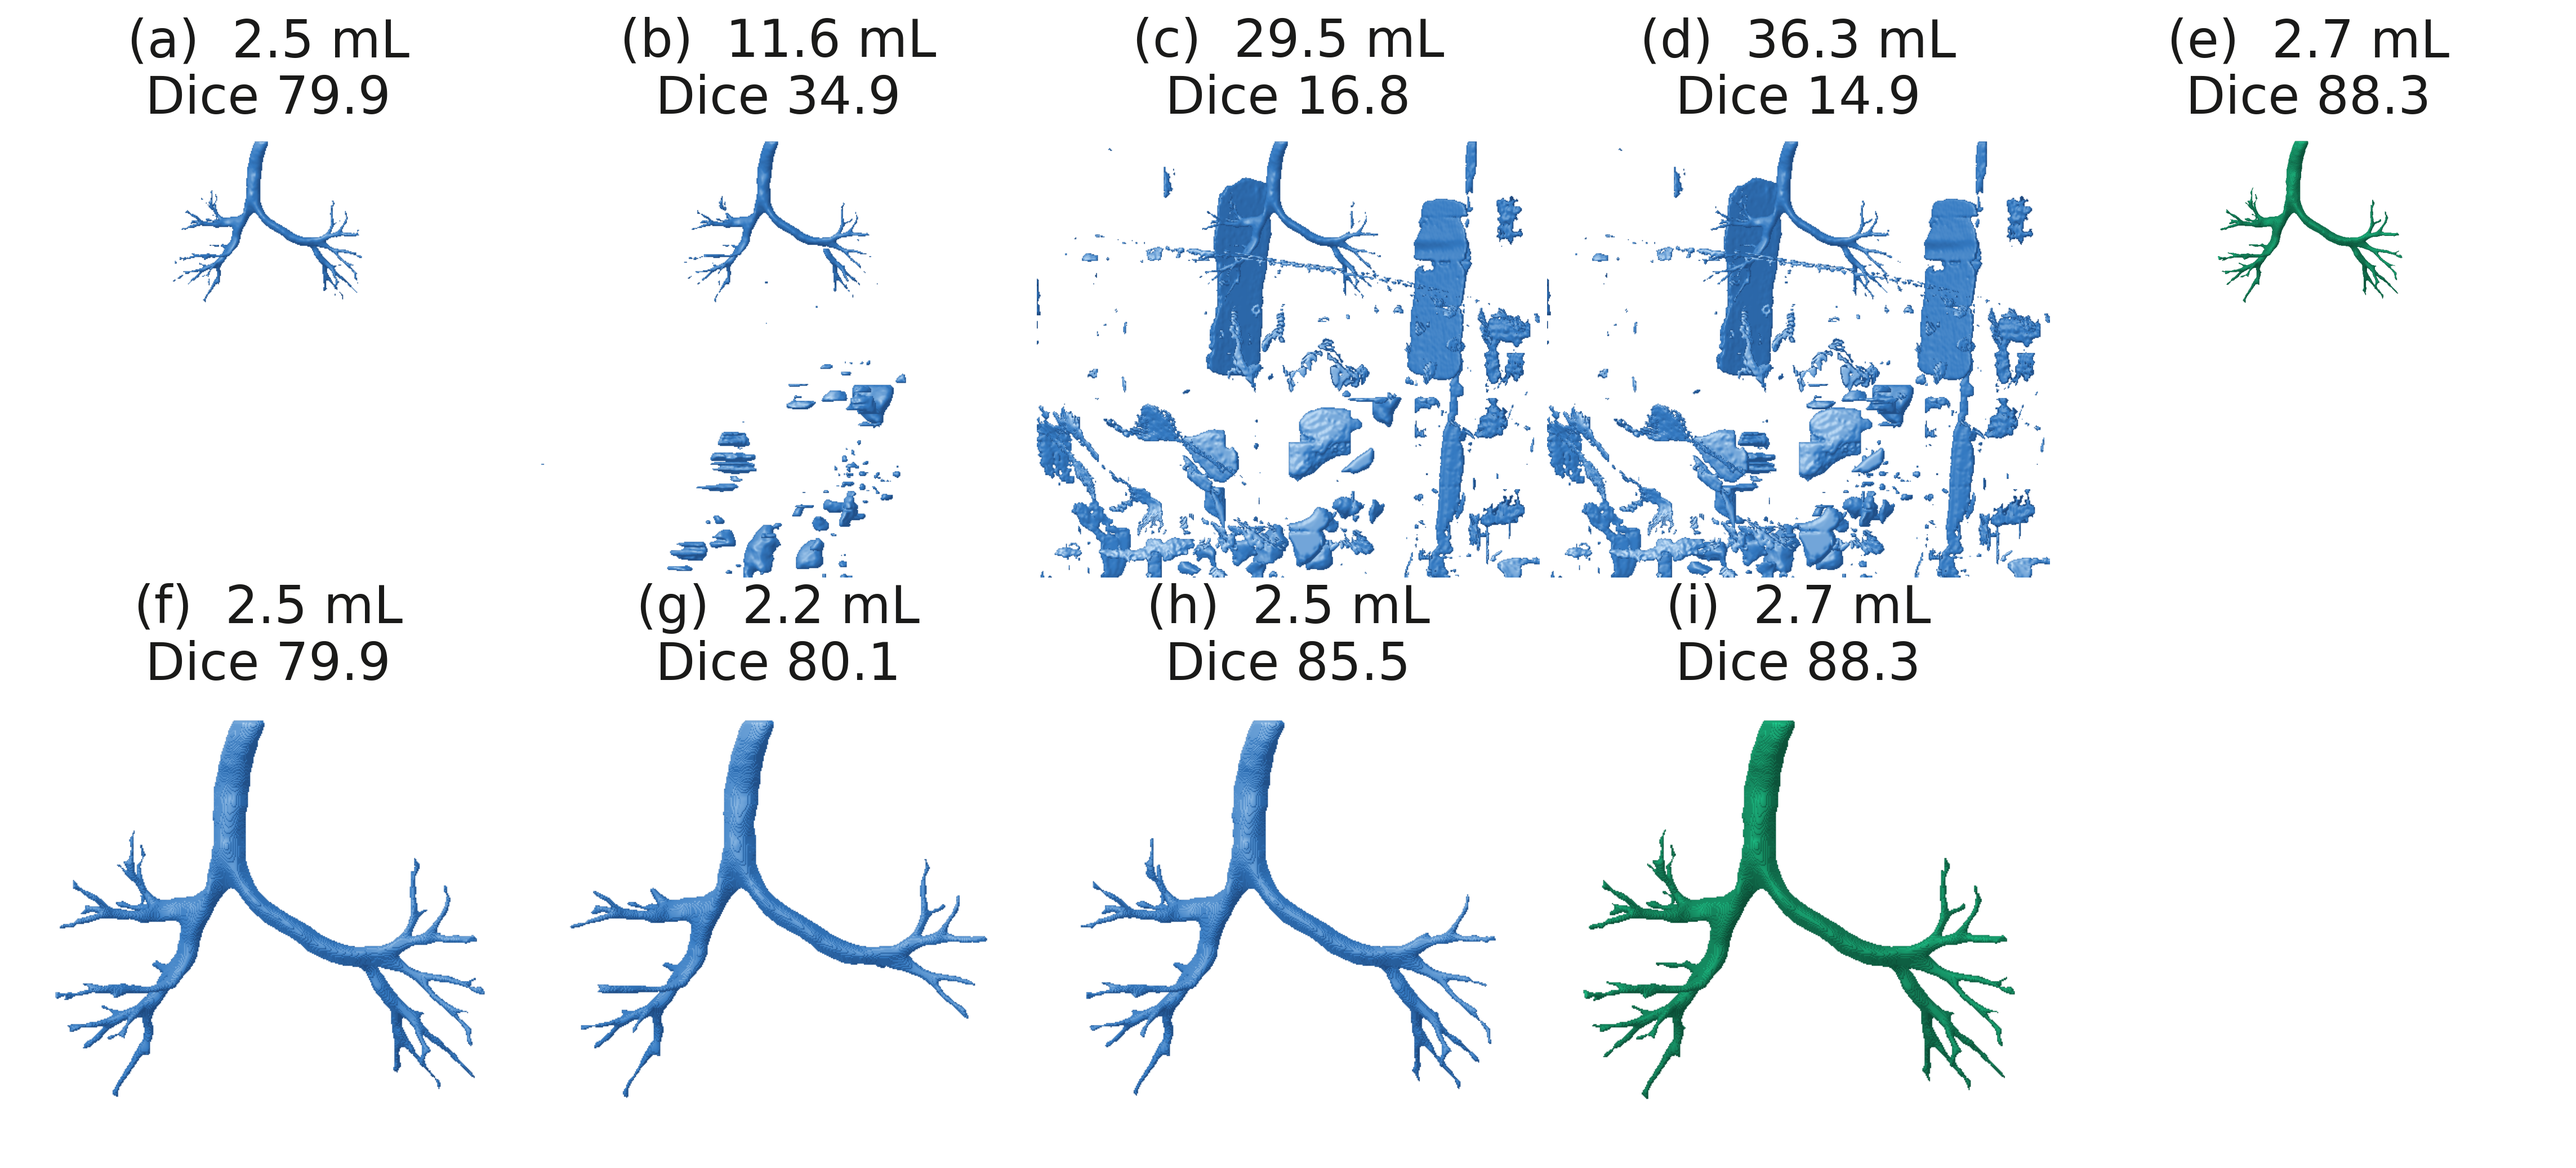
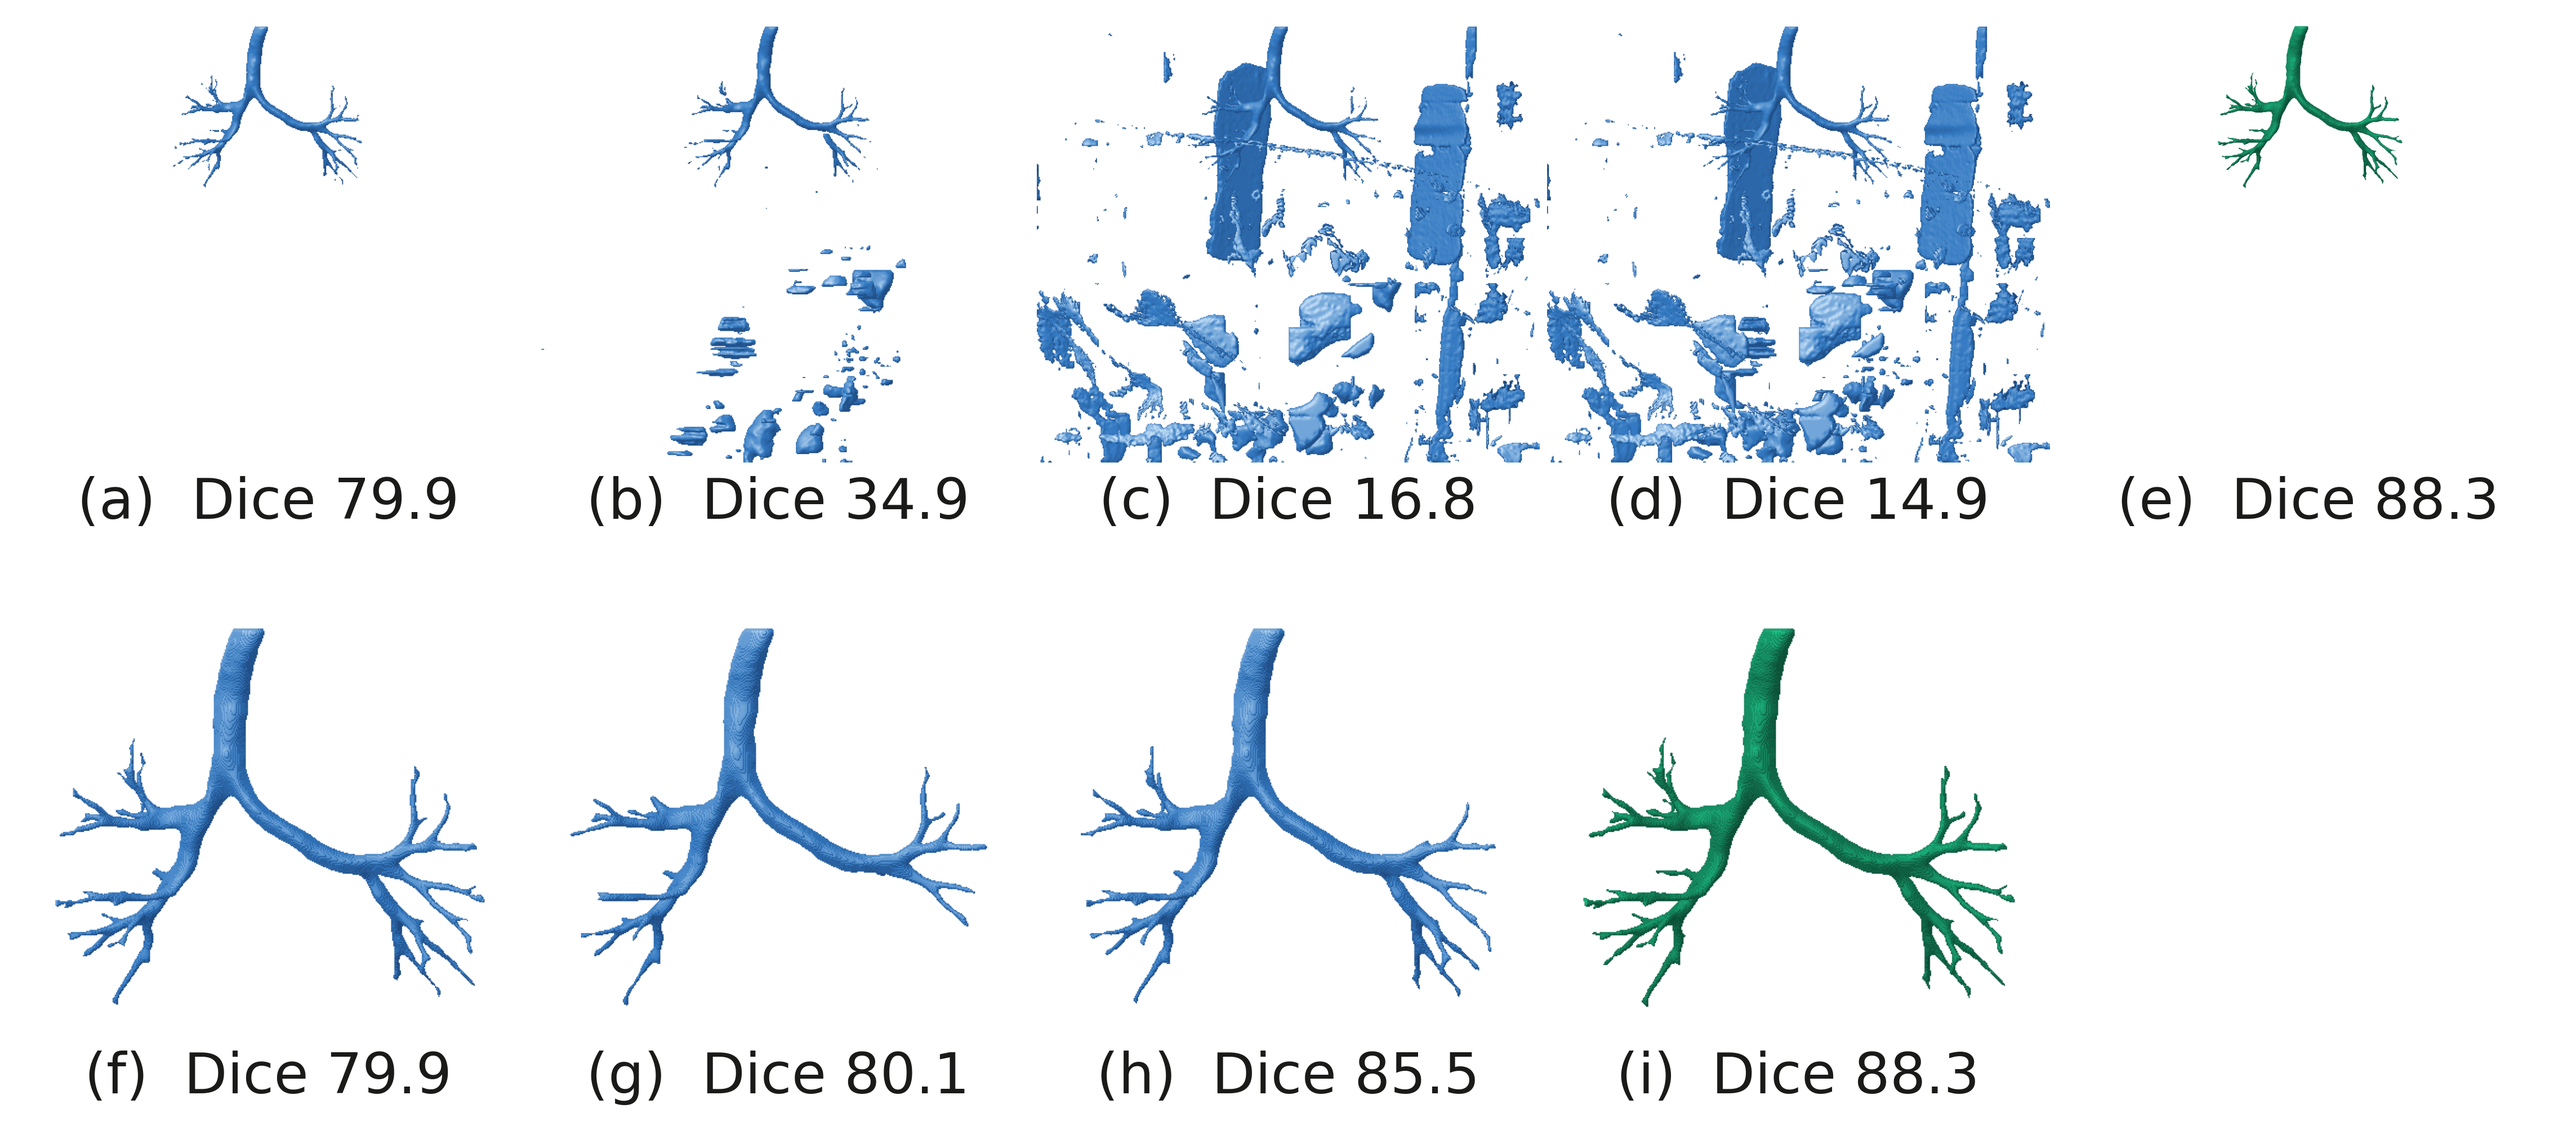
Figure 3: Dice under each panel, volumes moved into the caption

diff --git a/paper/airway_method_paper.tex b/paper/airway_method_paper.tex
@@ -328,18 +328,19 @@ every case.
 whose airway carries an expert annotation of 3.8\,mL. Every panel shares one
 crop, camera and physical scale, so what differs is the mask alone, and the
 frame is set by the union so that nothing any member produced is cropped
-away. Above each panel are the mask's volume and its Dice against the
-annotation. AirMorph (a) is conservative and clean, MEDPSeg (b) adds detached
-debris, and TfeNet (c) contributes two slab artefacts that together exceed
-the airway in volume, so its Dice is 16.8 although it covers more of the
-annotated tree than either other member. Their union (d) inherits all of it,
-at Dice 14.9. Selecting the component carrying the seed rather than the
-largest one recovers the airway (e), at Dice 88.3, the highest of every panel
+away. Under each panel is the mask's Dice against the annotation. AirMorph
+(a) is conservative and clean at 2.5\,mL, MEDPSeg (b) adds detached debris
+to 11.6\,mL, and TfeNet (c) contributes two slab artefacts that bring it to
+29.5\,mL, an order of magnitude above the airway, so its Dice is 16.8
+although it covers more of the annotated tree than either other member.
+Their union (d) inherits all of it, at 36.3\,mL and
+Dice 14.9. Selecting the component carrying the seed rather than the
+largest one recovers the airway (e), 2.7\,mL at Dice 88.3, the highest of every panel
 and above the same rule applied to any member on its own (f to i). On this
 examination the largest component is a slab, so the conventional rule would
 have discarded the tree entirely. Panel (e) is rendered on a finer grid with
-smoothing artefacts suppressed, which does not affect the volumes and Dice
-printed on the panels, measured on the masks themselves.}
+smoothing artefacts suppressed, which does not affect the Dice printed on
+the panels, measured on the masks themselves.}
 \label{fig:panels}
 \end{figure}
 

diff --git a/evaluation/figures/fig_panels.py b/evaluation/figures/fig_panels.py
@@ -213,10 +213,11 @@ for r in range(2):
         if c >= len(imgs[r]):
             continue
         ax.imshow(imgs[r][c])
-        ax.set_title(f"{letters[r][c]}  {vols[r][c]:.1f} mL\nDice {dices[r][c]:.1f}", fontsize=22,
-                     color="#1a1a19", pad=8, linespacing=1.15)
-fig.subplots_adjust(wspace=0.015, hspace=0.16, left=0.005, right=0.995,
-                    top=0.91, bottom=0.005)
+        # the letter and the Dice under the panel; volumes are in the caption text
+        ax.text(0.5, -0.03, f"{letters[r][c]}  Dice {dices[r][c]:.1f}", transform=ax.transAxes,
+                ha="center", va="top", fontsize=24, color="#1a1a19")
+fig.subplots_adjust(wspace=0.015, hspace=0.18, left=0.005, right=0.995,
+                    top=0.995, bottom=0.06)
 for ext in ("pdf", "png"):
     fig.savefig(f"{OUT}.{ext}", dpi=300, bbox_inches="tight", facecolor="white")
 print("wrote", OUT + ".pdf")
